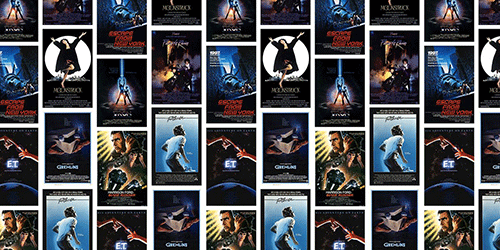
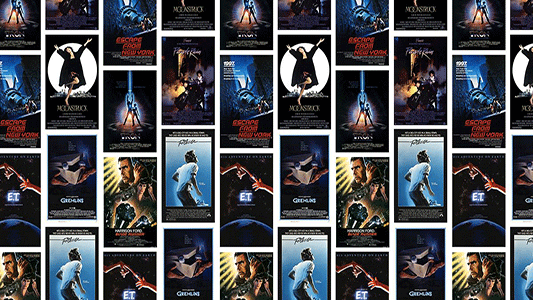
Add loader to search results, add links to cards titles anf Fix aspect-ratio issue

diff --git a/src/components/ui/ItemCard.tsx b/src/components/ui/ItemCard.tsx
@@ -38,20 +38,13 @@ const ItemCard: FC<ItemCardProps> = ({
           media_type={media_type}
           className="absolute right-3 top-3 z-10"
         />
-        <NavLink
-          to={media_type === "movie" ? `/movie/${id}` : `/tv/${id}`}
-          key={id}
-        >
+        <NavLink to={media_type === "movie" ? `/movie/${id}` : `/tv/${id}`}>
           <img
-            className="w-full rounded-lg aspect-[16/9]"
+            className="w-full rounded-lg aspect-[16/9] object-cover"
             loading="lazy"
             decoding="async"
             max-width="500px"
-            src={
-              imageSrc === nullImageSrc
-                ? poster
-                : imageSrc
-            }
+            src={imageSrc === nullImageSrc ? poster : imageSrc}
             alt={`${title} poster`}
           />
         </NavLink>
@@ -71,9 +64,11 @@ const ItemCard: FC<ItemCardProps> = ({
           <span>•</span>
           <Text>{ratings}</Text>
         </div>
-        <Heading as="h3" size="sm">
-          {title}
-        </Heading>
+        <NavLink to={media_type === "movie" ? `/movie/${id}` : `/tv/${id}`}>
+          <Heading as="h3" size="sm">
+            {title}
+          </Heading>
+        </NavLink>
       </div>
     </li>
   );

diff --git a/src/components/home/TrendingCard.tsx b/src/components/home/TrendingCard.tsx
@@ -33,7 +33,7 @@ const TrendingCard: FC<TrendingCardProps> = ({
           media_type={media_type}
           className="absolute right-4 top-4"
         />
-        <NavLink to={movie ? `/movie/${id}` : `/tv/${id}`} key={id}>
+        <NavLink to={movie ? `/movie/${id}` : `/tv/${id}`}>
           <img
             className="w-full rounded-lg"
             loading="eager"
@@ -48,7 +48,7 @@ const TrendingCard: FC<TrendingCardProps> = ({
           <Text>{releaseDate}</Text>
           <span>•</span>
           <div className="media-type flex items-center gap-1">
-          {media_type === "movie" ? (
+            {media_type === "movie" ? (
               <RiFilmFill className="text-md" />
             ) : (
               <PiTelevisionSimpleFill className="text-md" />
@@ -58,9 +58,11 @@ const TrendingCard: FC<TrendingCardProps> = ({
           <span>•</span>
           <Text>{ratings}</Text>
         </div>
-        <Heading as="h3" size="md">
-          {title}
-        </Heading>
+        <NavLink to={movie ? `/movie/${id}` : `/tv/${id}`} key={id}>
+          <Heading as="h3" size="md">
+            {title}
+          </Heading>
+        </NavLink>
       </div>
     </li>
   );

diff --git a/src/components/ui/BookMark.tsx b/src/components/ui/BookMark.tsx
@@ -52,16 +52,16 @@ const BookMark = ({
   }, [isBookmarked, id]);
 
   return (
-    <button
+    <div
       onClick={handleClick}
-      className={`group w-8 h-8 rounded-full bg-[#00000070] hover:bg-white hover:opacity-100 flex justify-center items-center ${className}`}
+      className={`group w-8 h-8 rounded-full bg-[#00000070] hover:bg-white hover:opacity-100 flex justify-center items-center cursor-pointer ${className}`}
     >
       {isBookmarked ? (
         <IoBookmark className="text-xl text-white group-hover:text-black" />
       ) : (
         <IoBookmarkOutline className="text-xl text-white group-hover:text-black" />
       )}
-    </button>
+    </div>
   );
 };
 export default BookMark;

diff --git a/src/components/common/SearchResults.tsx b/src/components/common/SearchResults.tsx
@@ -5,6 +5,7 @@ import { DataState, SearchData } from "@/redux/search/searchSlice";
 import ItemCard from "../ui/ItemCard";
 import GridLayout from "../layout/GridLayout";
 import Heading from "../ui/Heading";
+import Loading from "../ui/Loading";
 
 type SearchResultsProps = {
   data: DataState;
@@ -17,7 +18,7 @@ const SearchResults: FC<SearchResultsProps> = ({ data }) => {
   return (
     <main>
       <Heading as="h1">Search Results</Heading>
-      {loading && <p>Loading...</p>}
+      {loading && <Loading />}
       {!loading && error ? <p>error</p> : null}
       <section>
         <Heading as="h2">Movies</Heading>

diff --git a/src/App.tsx b/src/App.tsx
@@ -12,7 +12,7 @@ import RequireAuth from "./components/common/RequireAuth";
 function App() {
   const { pathname } = useLocation();
   return (
-    <div className="font-outfitLight min-h-screen w-full max-w-[1920px] flex bg-main-dark text-white flex-col md:flex-row md:mx-auto relative">
+    <div className="font-outfitLight min-h-screen w-full  flex bg-main-dark text-white flex-col md:flex-row md:mx-auto relative">
       {pathname !== "/login" && (
         <header className="md:h-[100svh] md:fixed z-50">
           <Navbar />

diff --git a/index.html b/index.html
@@ -12,7 +12,7 @@
     <meta property="og:url" content="https://cine-scope-one.vercel.app/">
     <title>Cine Scope</title>
   </head>
-  <body">
+  <body>
     <div id="root"></div>
     <script type="module" src="/src/main.tsx"></script>
   </body>

diff --git a/src/index.css b/src/index.css
@@ -22,11 +22,11 @@
 }
 
 body {
-  background-color: black;
+  background-color: #10141E;
 }
 
 #root {
-  background-color: black;
+  background-color: #10141E;
 }
 
 nav {
